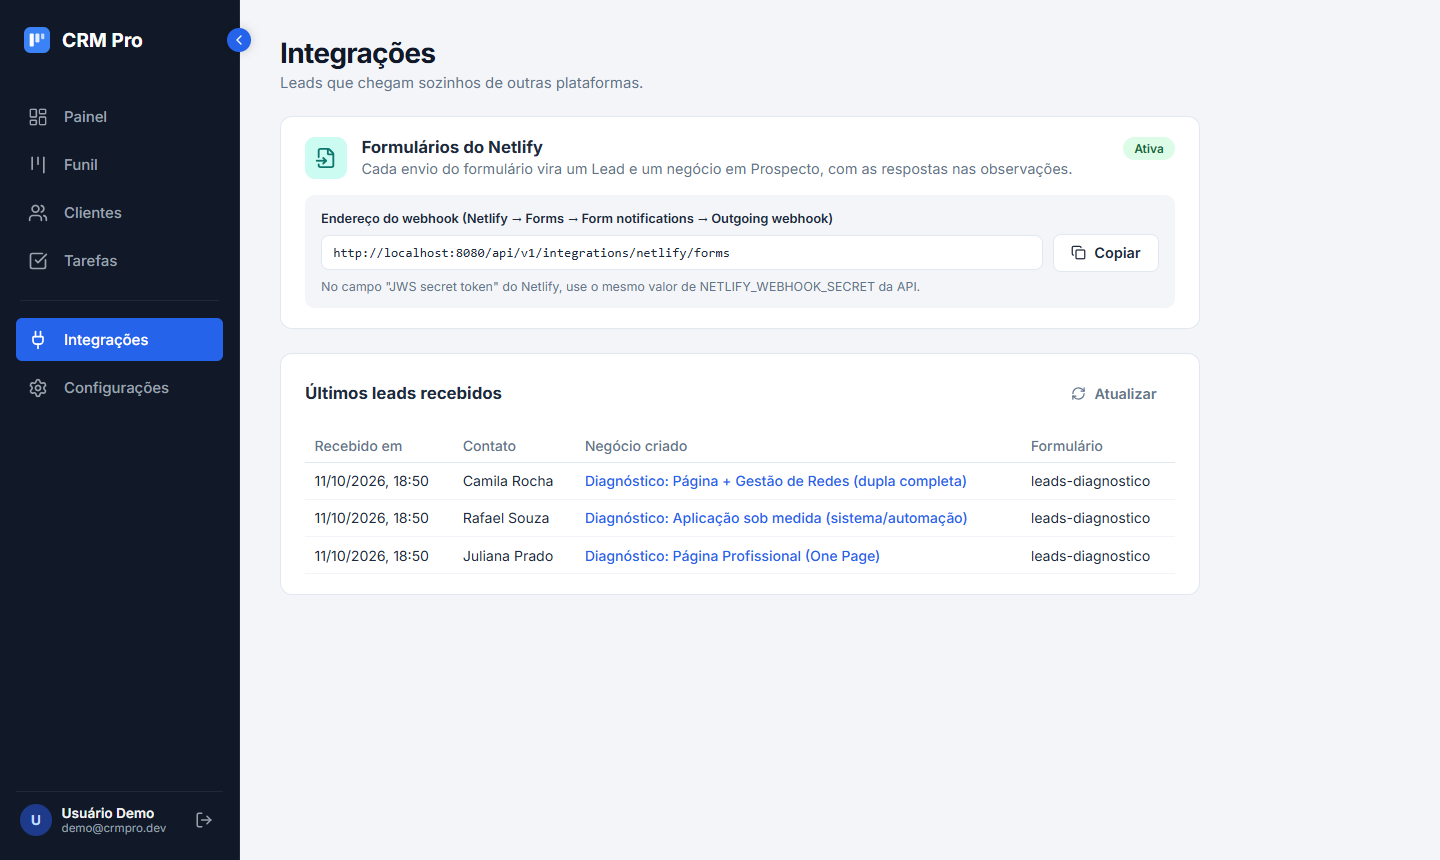
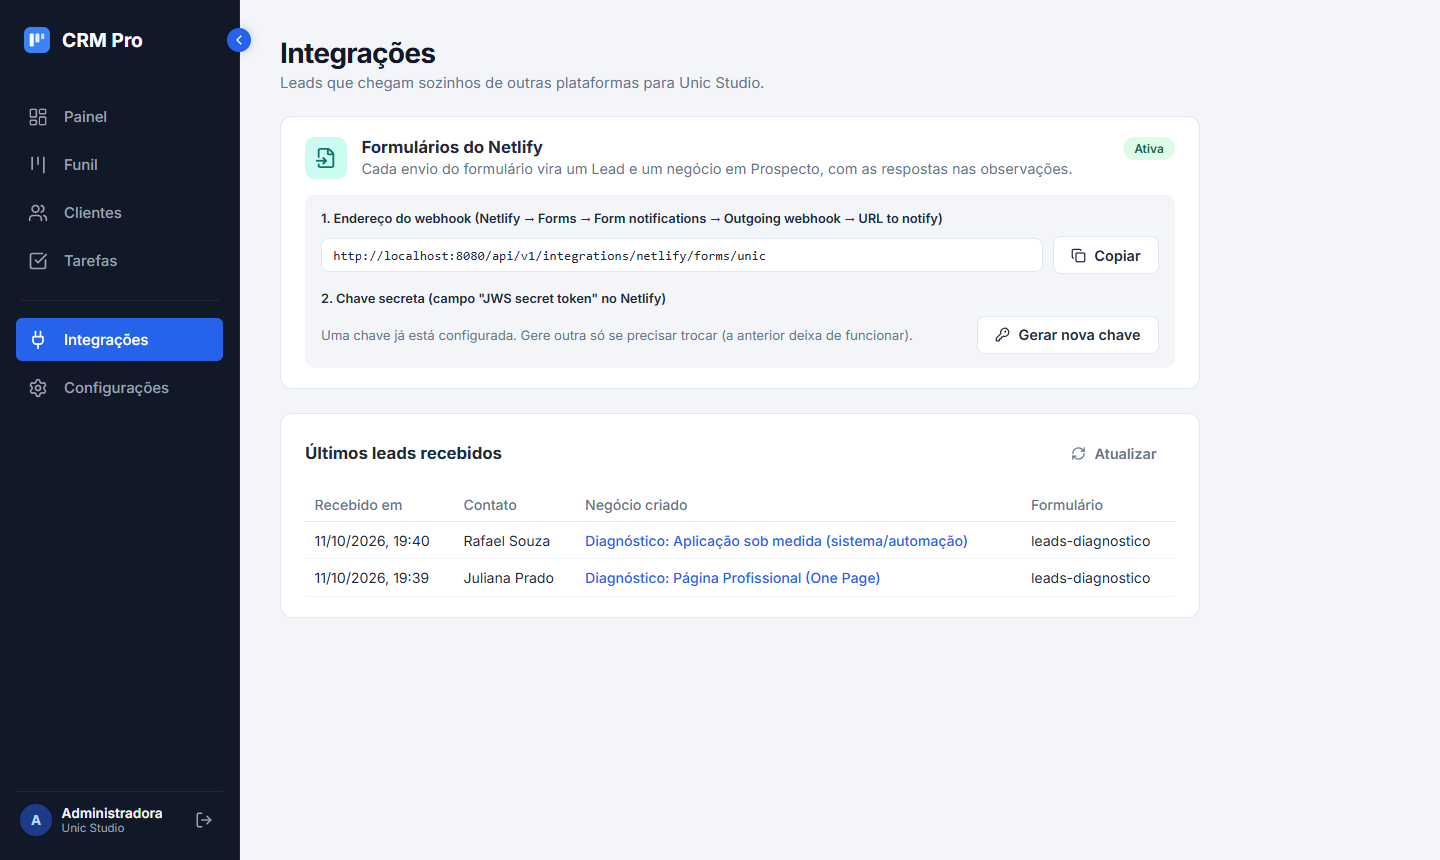
feat: fase 5 - multiempresa no frontend
- Nome da organização no menu e em Configurações
- Integrações: endereço do webhook da organização e geração da chave secreta
  (mostrada uma vez, com confirmação para trocar)
- Demo mostra a integração como indisponível
- Prints novos: a mesma tela vista pela Unic e pela Demo

diff --git a/src/pages/Integrations/index.tsx b/src/pages/Integrations/index.tsx
@@ -1,15 +1,33 @@
-import { useQuery } from '@tanstack/react-query';
+import { useState } from 'react';
+import { useMutation, useQuery, useQueryClient } from '@tanstack/react-query';
 import { Link } from 'react-router';
-import { Copy, FileInput, Inbox, RefreshCw } from 'lucide-react';
+import { Copy, FileInput, Inbox, KeyRound, LoaderCircle, RefreshCw } from 'lucide-react';
 import { toast } from 'sonner';
 import { Button } from '../../components/Button';
+import { ConfirmDialog } from '../../components/ConfirmDialog';
+import { useAuth } from '../../context/auth-context';
 import { API_ORIGIN, getErrorMessage, integrationsApi } from '../../services/api';
 import '../Customers/styles.css';
 import './styles.css';
 
 const dateTime = new Intl.DateTimeFormat('pt-BR', { dateStyle: 'short', timeStyle: 'short' });
 
+async function copy(text: string, label: string) {
+  try {
+    await navigator.clipboard.writeText(text);
+    toast.success(`${label} copiado`);
+  } catch {
+    toast.error('Não foi possível copiar. Selecione o texto e copie manualmente.');
+  }
+}
+
 export const Integrations = () => {
+  const { user } = useAuth();
+  const queryClient = useQueryClient();
+  const isAdmin = user?.role === 'ADMIN';
+  const [newSecret, setNewSecret] = useState<string | null>(null);
+  const [confirmRegenerate, setConfirmRegenerate] = useState(false);
+
   const status = useQuery({ queryKey: ['integrations', 'status'], queryFn: integrationsApi.status });
   const leads = useQuery({
     queryKey: ['integrations', 'leads'],
@@ -17,24 +35,28 @@ export const Integrations = () => {
     refetchInterval: 60_000,
   });
 
-  const webhookUrl = `${API_ORIGIN}${status.data?.netlifyWebhookPath ?? '/api/v1/integrations/netlify/forms'}`;
-  const enabled = status.data?.netlifyEnabled ?? false;
+  const regenerate = useMutation({
+    mutationFn: integrationsApi.regenerateNetlifySecret,
+    onSuccess: (secret) => {
+      setNewSecret(secret);
+      setConfirmRegenerate(false);
+      queryClient.invalidateQueries({ queryKey: ['integrations', 'status'] });
+    },
+    onError: (error) => toast.error(getErrorMessage(error)),
+  });
 
-  const copyWebhook = async () => {
-    try {
-      await navigator.clipboard.writeText(webhookUrl);
-      toast.success('Endereço copiado');
-    } catch {
-      toast.error('Não foi possível copiar. Selecione o endereço e copie manualmente.');
-    }
-  };
+  const webhookUrl = status.data ? `${API_ORIGIN}${status.data.netlifyWebhookPath}` : '';
+  const configured = status.data?.netlifyConfigured ?? false;
 
   return (
     <main className="container">
       <header className="pageHeader">
         <div>
           <h1>Integrações</h1>
-          <p className="pageSubtitle">Leads que chegam sozinhos de outras plataformas.</p>
+          <p className="pageSubtitle">
+            Leads que chegam sozinhos de outras plataformas
+            {user?.organization ? ` para ${user.organization.name}` : ''}.
+          </p>
         </div>
       </header>
 
@@ -47,31 +69,67 @@ export const Integrations = () => {
             <h2>Formulários do Netlify</h2>
             <p>Cada envio do formulário vira um Lead e um negócio em Prospecto, com as respostas nas observações.</p>
           </div>
-          {status.isPending ? null : (
-            <span className={`integrationPill ${enabled ? 'on' : 'off'}`}>{enabled ? 'Ativa' : 'Desativada'}</span>
+          {status.data && (
+            <span className={`integrationPill ${configured ? 'on' : 'off'}`}>
+              {!status.data.available ? 'Indisponível' : configured ? 'Ativa' : 'Não configurada'}
+            </span>
           )}
         </div>
 
-        {enabled ? (
+        {status.data && !status.data.available && (
+          <p className="integrationNote">
+            Indisponível na organização de demonstração. Nas empresas reais, cada formulário respondido no site chega aqui
+            automaticamente.
+          </p>
+        )}
+
+        {status.data?.available && (
           <div className="webhookBox">
-            <span className="webhookLabel">Endereço do webhook (Netlify → Forms → Form notifications → Outgoing webhook)</span>
+            <span className="webhookLabel">
+              1. Endereço do webhook (Netlify → Forms → Form notifications → Outgoing webhook → URL to notify)
+            </span>
             <div className="webhookRow">
               <code>{webhookUrl}</code>
-              <Button variant="secondary" onClick={copyWebhook}>
+              <Button variant="secondary" onClick={() => copy(webhookUrl, 'Endereço')}>
                 <Copy size={15} />
                 Copiar
               </Button>
             </div>
-            <span className="webhookHint">
-              No campo "JWS secret token" do Netlify, use o mesmo valor de NETLIFY_WEBHOOK_SECRET da API.
-            </span>
+
+            <span className="webhookLabel">2. Chave secreta (campo "JWS secret token" no Netlify)</span>
+            {newSecret ? (
+              <>
+                <div className="webhookRow">
+                  <code className="secretValue">{newSecret}</code>
+                  <Button variant="secondary" onClick={() => copy(newSecret, 'Chave')}>
+                    <Copy size={15} />
+                    Copiar
+                  </Button>
+                </div>
+                <span className="webhookWarning">
+                  Copie e cole no Netlify agora: por segurança, esta chave não será mostrada de novo.
+                </span>
+              </>
+            ) : isAdmin ? (
+              <div className="webhookRow">
+                <span className="webhookHint">
+                  {configured
+                    ? 'Uma chave já está configurada. Gere outra só se precisar trocar (a anterior deixa de funcionar).'
+                    : 'Gere a chave que o Netlify vai usar para assinar os envios.'}
+                </span>
+                <Button
+                  variant={configured ? 'secondary' : 'primary'}
+                  onClick={() => (configured ? setConfirmRegenerate(true) : regenerate.mutate())}
+                  disabled={regenerate.isPending}
+                >
+                  {regenerate.isPending ? <LoaderCircle size={15} className="spin" /> : <KeyRound size={15} />}
+                  {configured ? 'Gerar nova chave' : 'Gerar chave'}
+                </Button>
+              </div>
+            ) : (
+              <span className="webhookHint">Peça a uma administradora para gerar a chave.</span>
+            )}
           </div>
-        ) : (
-          !status.isPending && (
-            <p className="integrationNote">
-              Desativada neste ambiente. No CRM da Unic, cada diagnóstico respondido no site chega aqui automaticamente.
-            </p>
-          )
         )}
       </section>
 
@@ -118,6 +176,19 @@ export const Integrations = () => {
           </div>
         )}
       </section>
+
+      {confirmRegenerate && (
+        <ConfirmDialog
+          title="Gerar nova chave?"
+          confirmLabel="Gerar nova chave"
+          isLoading={regenerate.isPending}
+          onConfirm={() => regenerate.mutate()}
+          onClose={() => setConfirmRegenerate(false)}
+        >
+          A chave atual deixa de funcionar na hora. Os envios do Netlify só voltam a chegar depois que você colar a nova
+          chave lá.
+        </ConfirmDialog>
+      )}
     </main>
   );
 };

diff --git a/src/types/auth.ts b/src/types/auth.ts
@@ -1,8 +1,17 @@
+export interface Organization {
+  id: number;
+  name: string;
+  slug: string;
+  demo: boolean;
+}
+
 export interface User {
   id: number;
   name: string;
   email: string;
   role: 'ADMIN' | 'DEMO';
+  /** Pode faltar em sessões salvas antes do multiempresa. */
+  organization?: Organization;
 }
 
 export interface LoginResponse {
@@ -11,7 +20,7 @@ export interface LoginResponse {
   user: User;
 }
 
-/** Ambiente de demonstração? No CRM real (VITE_DEMO_MODE=false) o acesso demo some da tela. */
+/** Ambiente de demonstração? Com VITE_DEMO_MODE=false o acesso demo some da tela de login. */
 export const IS_DEMO = import.meta.env.VITE_DEMO_MODE !== 'false';
 
 /** Credenciais públicas do usuário de demonstração (as mesmas do backend). */

diff --git a/src/App.tsx b/src/App.tsx
@@ -43,7 +43,7 @@ function App() {
           element={
             <ComingSoon
               title="Painel de resultados"
-              phase={5}
+              phase={6}
               items={[
                 'Receita ganha por mês',
                 'Conversão por etapa e origem dos negócios',
@@ -57,7 +57,7 @@ function App() {
           element={
             <ComingSoon
               title="Tarefas"
-              phase={6}
+              phase={7}
               items={['Follow-ups com data e responsável', 'Lembretes de negócios parados']}
             />
           }

diff --git a/src/pages/Integrations/styles.css b/src/pages/Integrations/styles.css
@@ -99,8 +99,31 @@
 }
 
 .webhookHint {
-  font-size: 0.78rem;
+  font-size: 0.82rem;
   color: var(--text-secondary);
+  flex: 1;
+  min-width: 200px;
+}
+
+.webhookLabel + .webhookRow,
+.webhookRow + .webhookLabel,
+.webhookWarning + .webhookLabel {
+  margin-top: 0.15rem;
+}
+
+.webhookBox .webhookLabel:not(:first-child) {
+  margin-top: 0.6rem;
+}
+
+.secretValue {
+  background: #fffbeb !important;
+  border-color: #fcd34d !important;
+}
+
+.webhookWarning {
+  font-size: 0.8rem;
+  color: #92400e;
+  font-weight: 500;
 }
 
 .leadsHeader {

diff --git a/src/components/Sidebar/index.tsx b/src/components/Sidebar/index.tsx
@@ -80,7 +80,7 @@ export const Sidebar = ({ isOpen, toggle }: SidebarProps) => {
           </span>
           <div className="userInfo">
             <span className="userName">{user.name}</span>
-            <span className="userEmail">{user.email}</span>
+            <span className="userEmail">{user.organization?.name ?? user.email}</span>
           </div>
           <button className="logoutBtn" onClick={logout} aria-label="Sair" title="Sair">
             <LogOut size={18} />

diff --git a/src/services/api.ts b/src/services/api.ts
@@ -52,6 +52,8 @@ export const dealsApi = {
 export const integrationsApi = {
   status: () => api.get<IntegrationStatus>('/integrations/status').then((res) => res.data),
   recentLeads: () => api.get<InboundLead[]>('/integrations/leads').then((res) => res.data),
+  regenerateNetlifySecret: () =>
+    api.post<{ secret: string }>('/integrations/netlify/secret').then((res) => res.data.secret),
 };
 
 /** Endereço público da API, sem o /api/v1 (ex.: para montar a URL do webhook). */

diff --git a/src/pages/Settings/index.tsx b/src/pages/Settings/index.tsx
@@ -33,6 +33,10 @@ export const Settings = () => {
             <dd>{user?.email}</dd>
           </div>
           <div>
+            <dt>Empresa</dt>
+            <dd>{user?.organization?.name ?? '—'}</dd>
+          </div>
+          <div>
             <dt>Perfil</dt>
             <dd>{user ? roleLabels[user.role] : ''}</dd>
           </div>

diff --git a/src/types/integration.ts b/src/types/integration.ts
@@ -1,5 +1,8 @@
 export interface IntegrationStatus {
-  netlifyEnabled: boolean;
+  /** Falso na organização de demonstração. */
+  available: boolean;
+  /** Já existe chave para o webhook do Netlify. */
+  netlifyConfigured: boolean;
   netlifyWebhookPath: string;
 }
 

diff --git a/README.md b/README.md
@@ -22,9 +22,15 @@ API em [crm-vendas-backend](https://github.com/jessicaccl/crm-vendas-backend).
 |---|---|
 | ![Login](docs/screenshots/01-login.png) | ![Editar negócio](docs/screenshots/04-editar-negocio.png) |
 
-| Integrações (leads do quiz) | Lead do quiz no funil |
+**Multiempresa:** a mesma tela, vista por duas organizações diferentes.
+
+| Unic Studio (dados reais) | Demo (dados fictícios) |
 |---|---|
-| ![Integrações](docs/screenshots/07-integracoes.png) | ![Lead do quiz](docs/screenshots/08-lead-do-quiz.png) |
+| ![Integrações da Unic](docs/screenshots/07-integracoes.png) | ![Integrações da Demo](docs/screenshots/10-integracoes-demo.png) |
+
+| Funil da Unic (só os leads dela) | Lead do quiz no funil |
+|---|---|
+| ![Funil da Unic](docs/screenshots/09-funil-unic.png) | ![Lead do quiz](docs/screenshots/08-lead-do-quiz.png) |
 
 | Clientes | Celular |
 |---|---|
@@ -42,7 +48,8 @@ API em [crm-vendas-backend](https://github.com/jessicaccl/crm-vendas-backend).
 - Cadastro, edição e exclusão de negócios
 - Lista de clientes com busca, filtro por status (Lead, Cliente, Inativo) e paginação
 - Cadastro e edição em modal, com validação no navegador e mensagens de erro vindas da API
-- **Integrações**: status do webhook do Netlify (endereço com botão de copiar) e últimos leads recebidos do quiz de diagnóstico
+- **Multiempresa**: cada pessoa vê só os dados da própria organização; o nome da empresa aparece no menu
+- **Integrações**: endereço do webhook da organização, geração da chave secreta (mostrada uma vez) e últimos leads recebidos do quiz
 - Observações em cada negócio (os leads do quiz chegam com o resultado e o placar)
 - Estados de carregando, erro e lista vazia
 - Menu lateral recolhível e layout que funciona no celular
@@ -90,6 +97,7 @@ src/
 - [x] Fase 1: base (rotas, CRUD de clientes, validação, estados de tela)
 - [x] Fase 2: funil Kanban com arrastar e soltar e indicadores
 - [x] Fase 3: login, CI, deploy e demo online
-- [x] Fase 4: tela de Integrações (leads do quiz via Netlify) e modo sem demo para o ambiente real
-- [ ] Fase 5: painel de resultados com gráficos
-- [ ] Fase 6: ficha do cliente com atividades e tarefas
+- [x] Fase 4: tela de Integrações (leads do quiz via Netlify)
+- [x] Fase 5: multiempresa (organização no menu, chave do webhook por empresa)
+- [ ] Fase 6: painel de resultados com gráficos
+- [ ] Fase 7: ficha do cliente com atividades e tarefas
